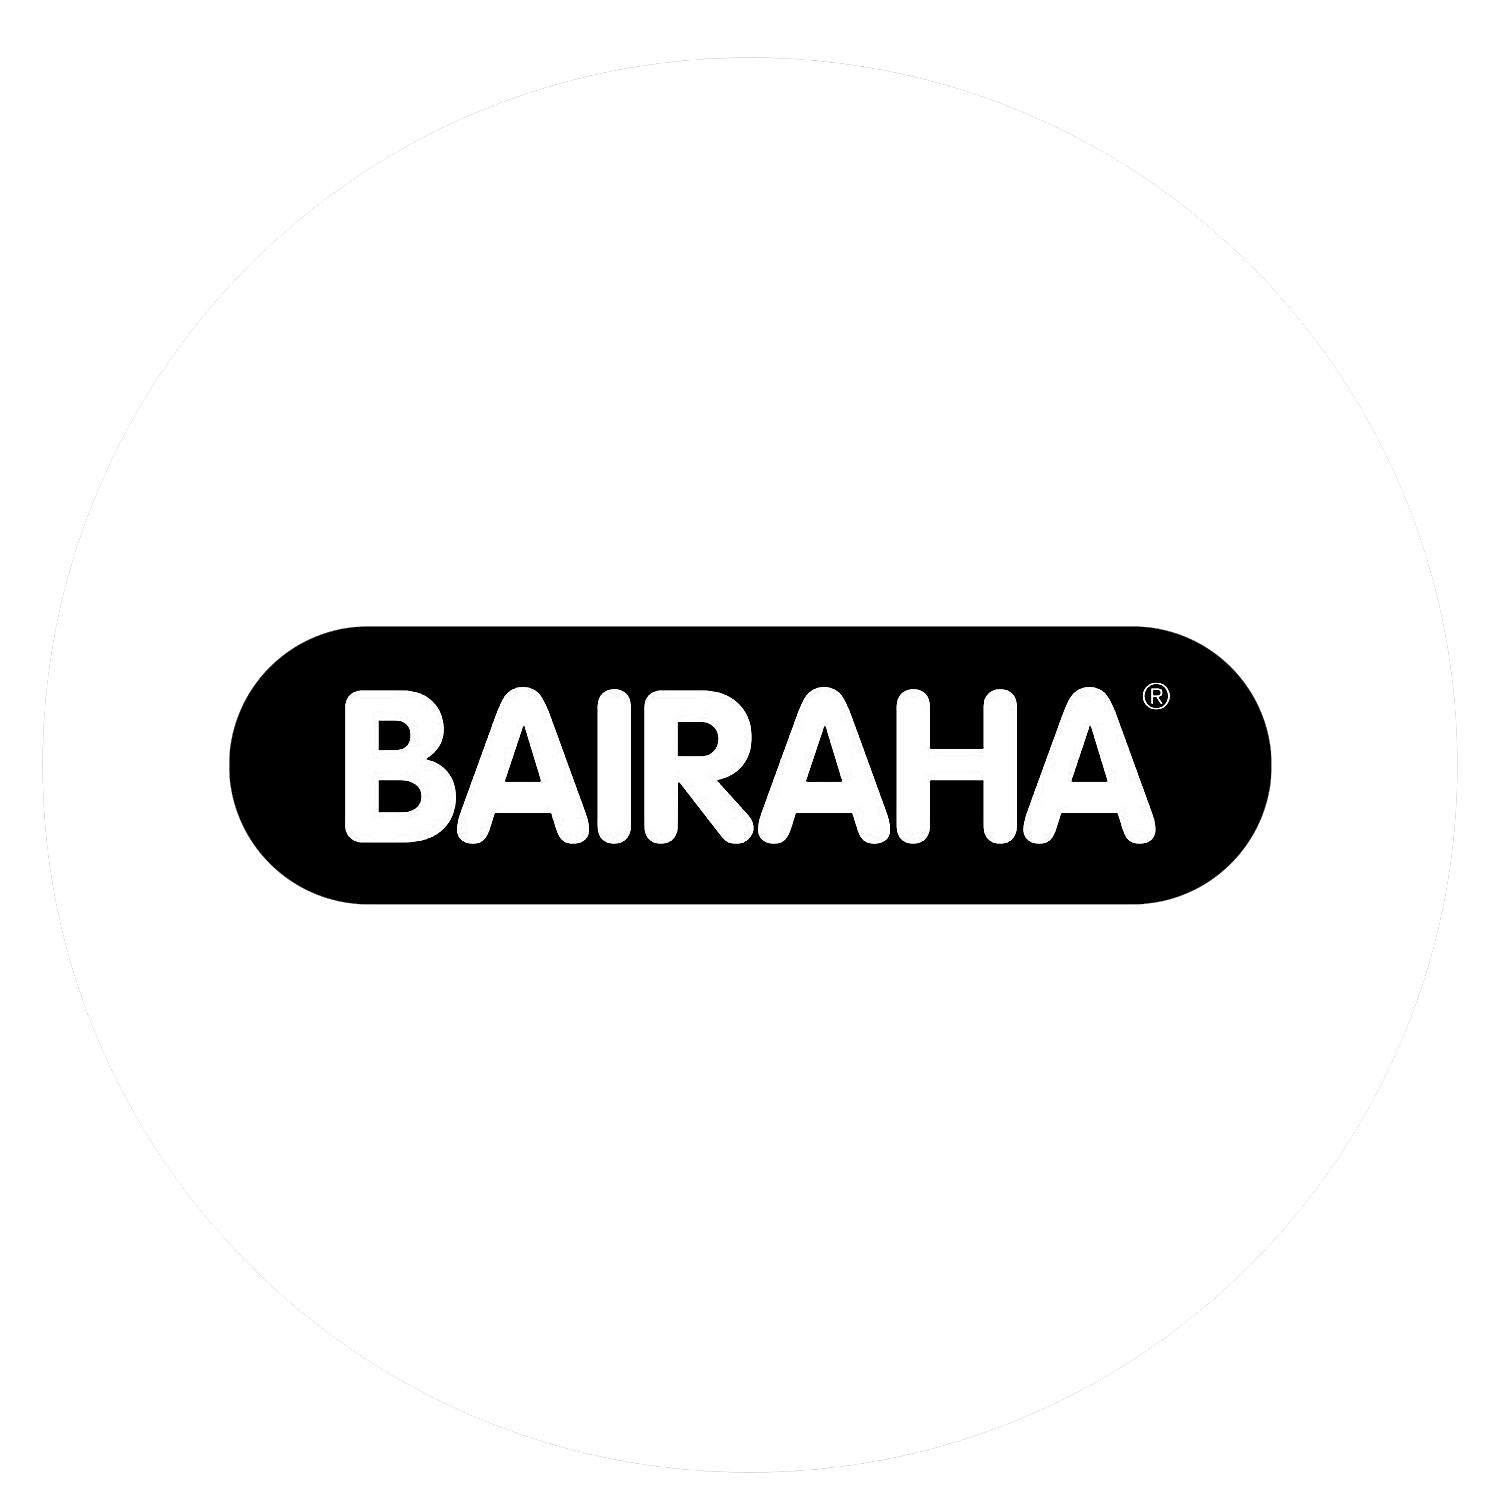
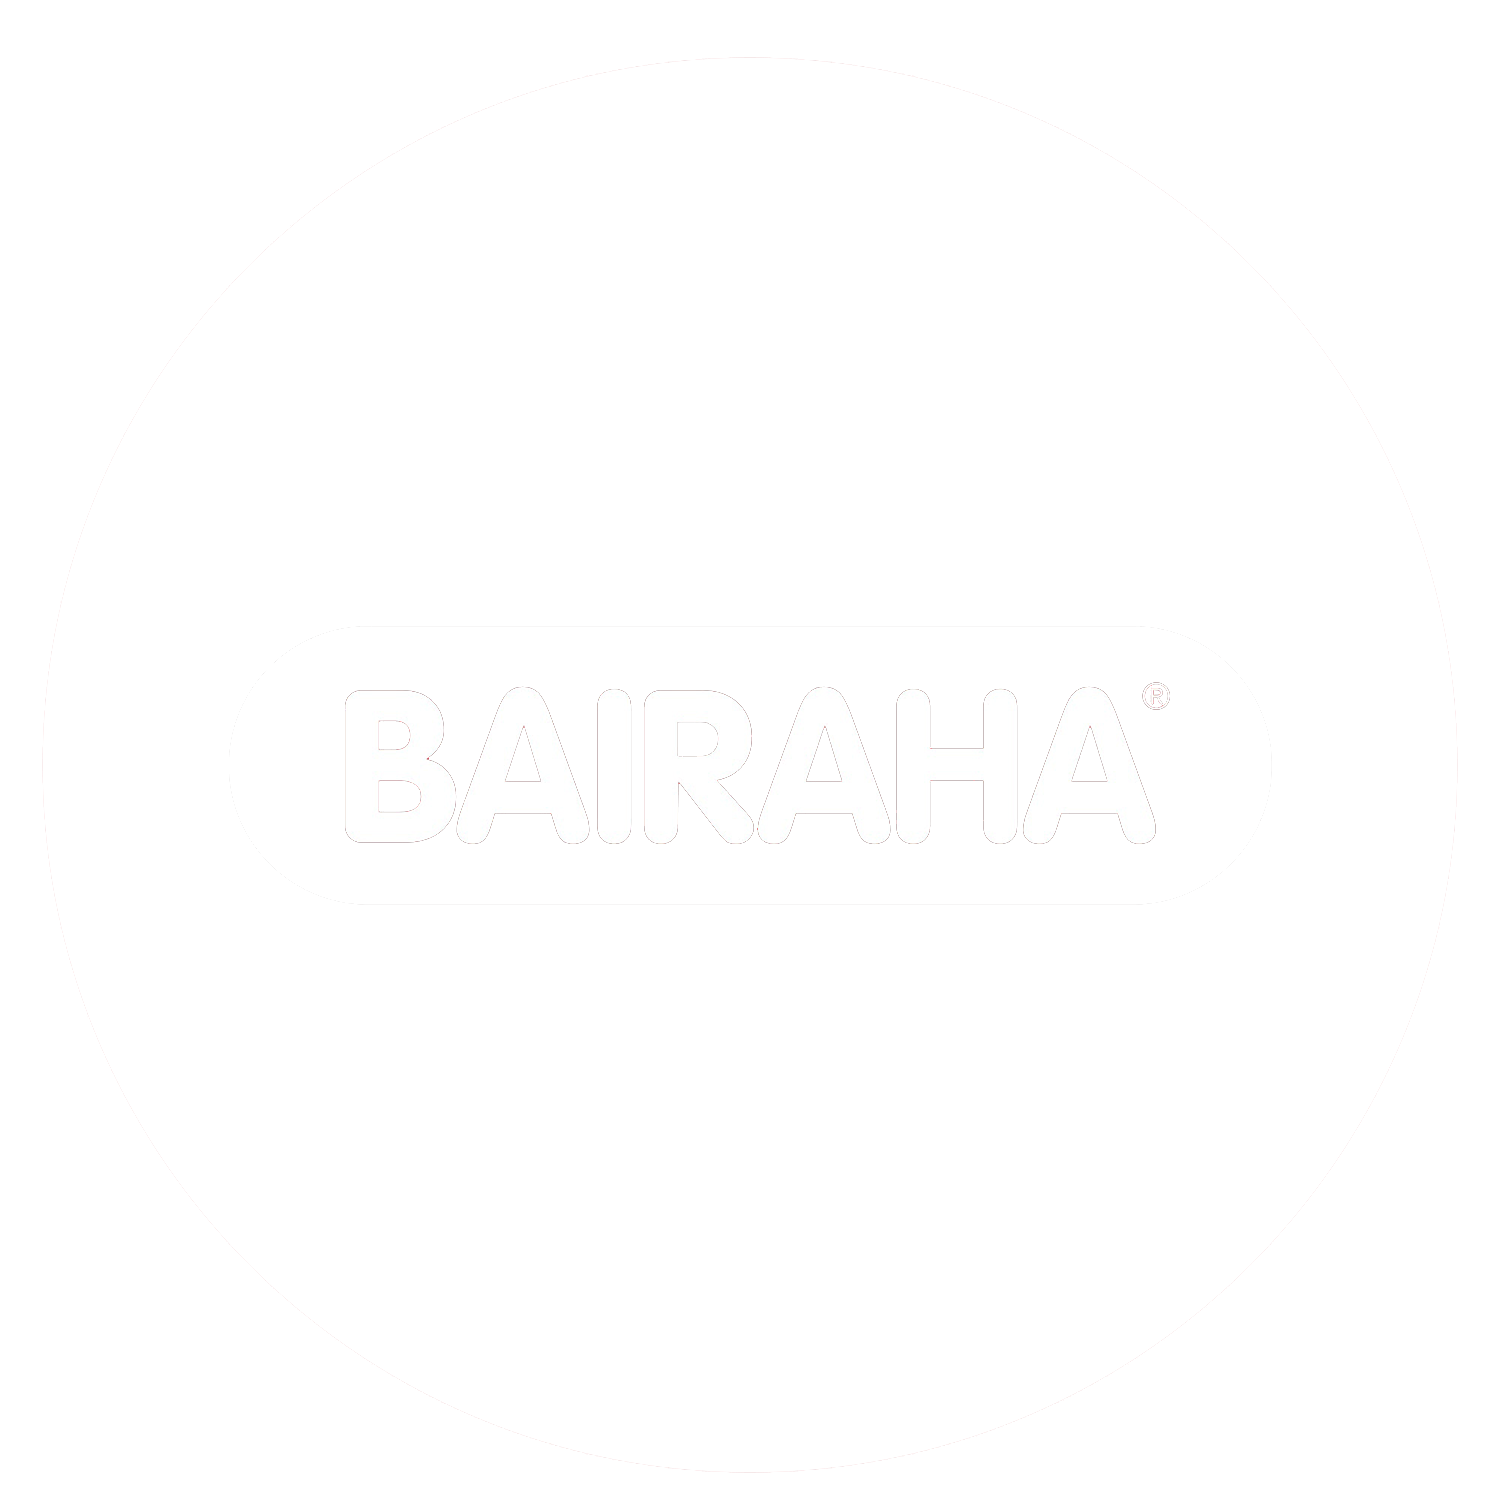
update-v26

Changed region(s): [[0.1533, 0.3987, 0.8587, 0.6133]]

diff --git a/styles.css b/styles.css
@@ -1076,8 +1076,8 @@ body {
 }
 
 .partner-logo img {
-  max-width: 100%;
-  max-height: 100%;
+  max-width: 270%;
+  max-height: 270%;
   object-fit: contain;
   filter: grayscale(100%) brightness(0) invert(1) opacity(0.7);
   transition: all 0.4s ease;
